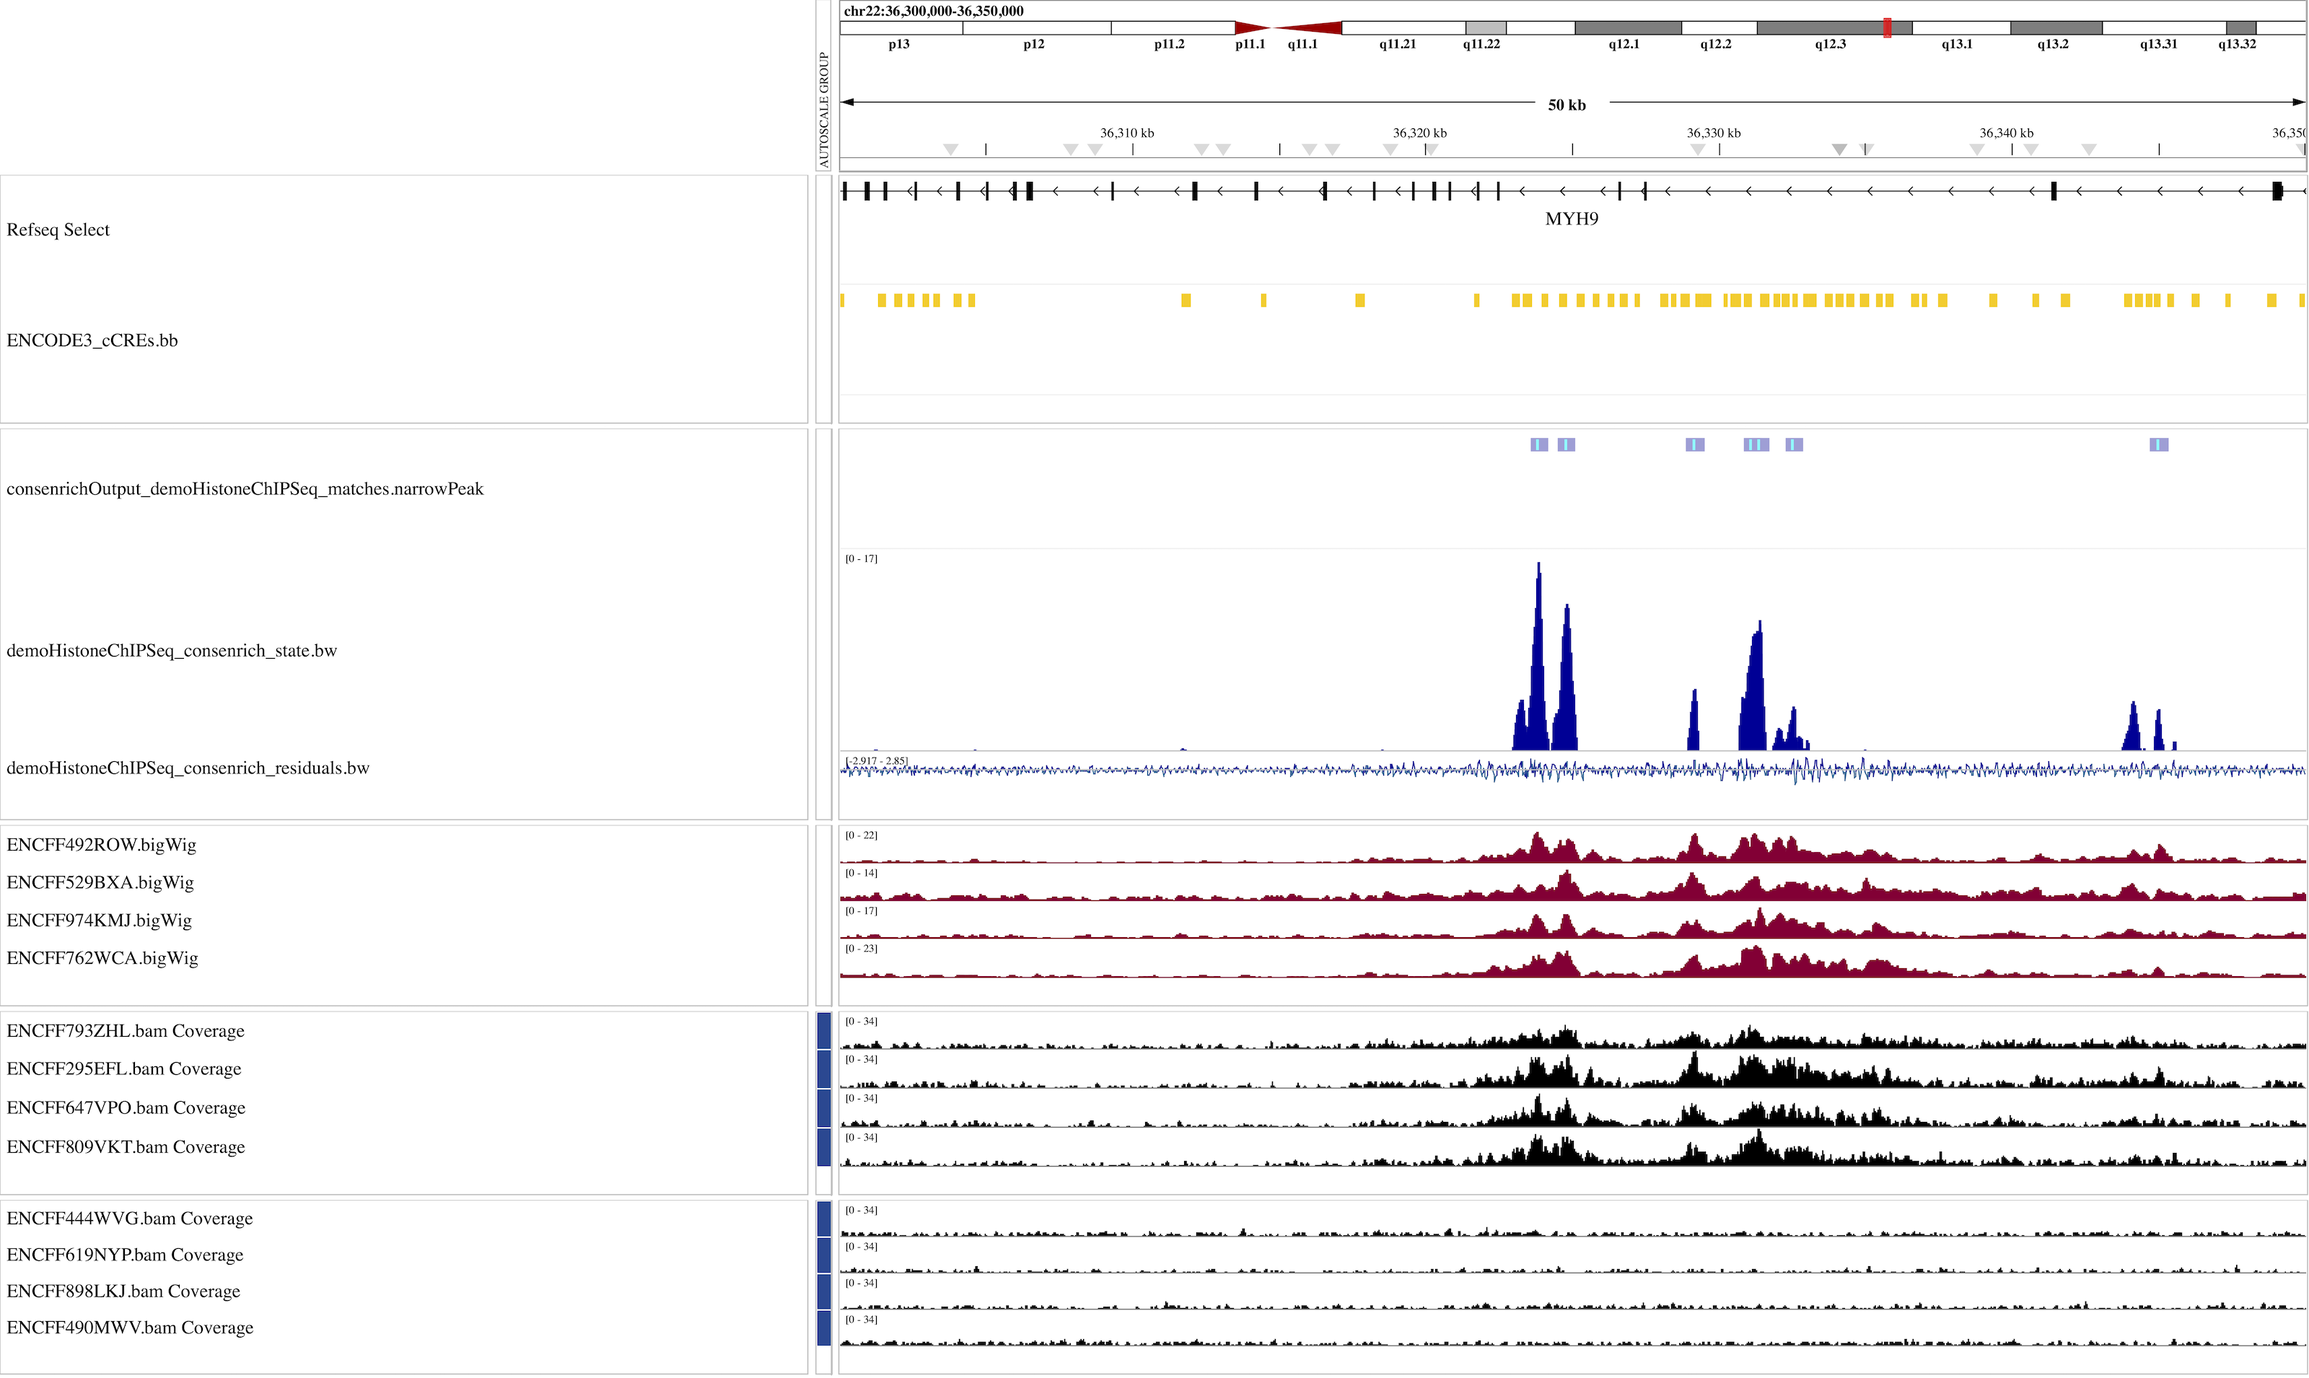
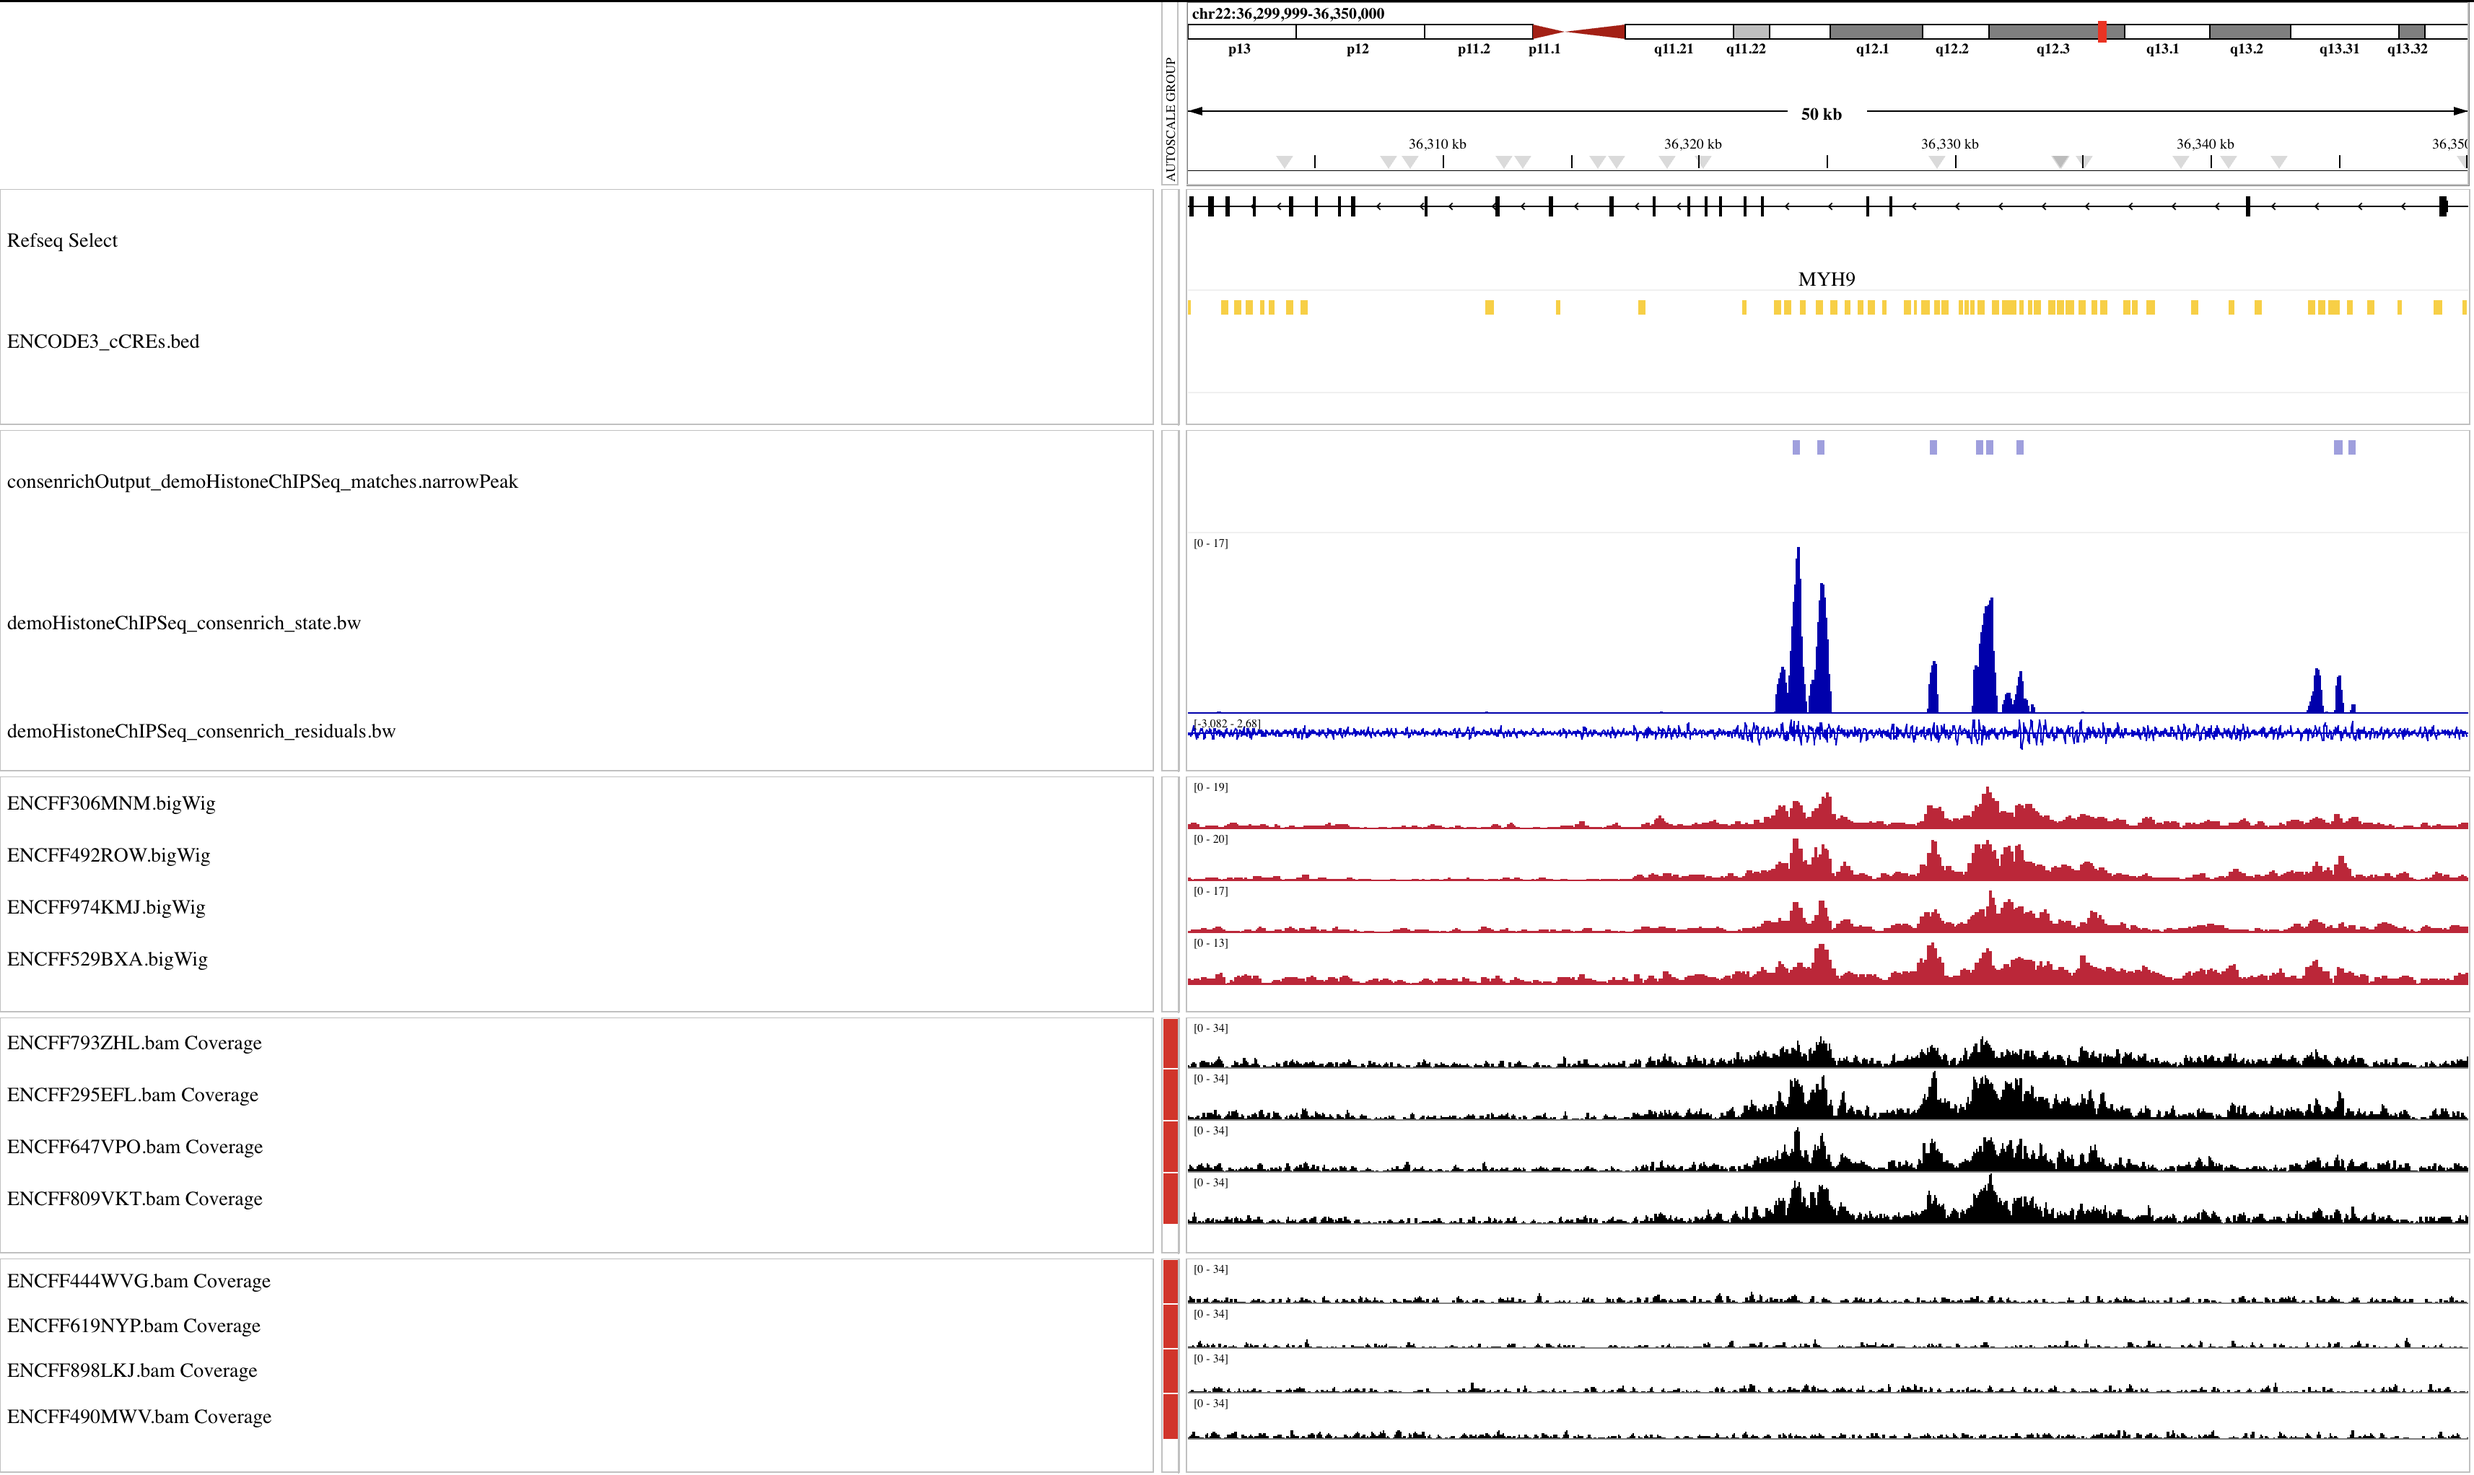
add 25kb

diff --git a/docs/source/examples.rst b/docs/source/examples.rst
@@ -79,7 +79,7 @@ Using a YAML Configuration file
    Refer to the ``<process,observation,etc.>Params`` classes in module in the :ref:`API` for complete documentation of configuration options.
 
 
-Copy and paste the following YAML into a file named ``demoHistoneChIPSeq.yaml``. For a quick trial run (:math:`\approx` 1 minute), you can restrict analysis to a single chromosome: To reproduce the results shown in the IGV browser snapshot below add ``genomeParams.chromosomes: ['chr22']`` to the configuration file.
+Copy and paste the following YAML into a file named ``demoHistoneChIPSeq.yaml``. For a quick trial run (:math:`\approx` 1 minute), you can restrict analysis to a subset of chromosomes: To reproduce the results shown in the IGV browser snapshot below add ``genomeParams.chromosomes: [chr21, chr22]`` to the configuration file.
 
 .. code-block:: yaml
   :name: demoHistoneChIPSeq.yaml
@@ -100,7 +100,10 @@ Copy and paste the following YAML into a file named ``demoHistoneChIPSeq.yaml``.
   matchingParams.iters: 25_000
   matchingParams.alpha: 0.01
 
-.. important:: To accommodate ATAC-seq, DNase-seq, CUT&RUN, etc. **Control inputs are optional**. Omit ``inputParams.bamFilesControl`` as needed.
+.. admonition:: Control Inputs
+  :class: tip
+
+  Omit ``inputParams.bamFilesControl`` for ATAC-seq, DNase-seq, Cut&Run, and other assays where no control is available or applicable.
 
 
 Run Consenrich
@@ -113,70 +116,70 @@ Invoke the command-line interface to run Consenrich:
 
   consenrich --config demoHistoneChIPSeq.yaml --verbose
 
-
-**IGV snapshot: demoHistoneChIPSeq**
-
-.. image:: ../images/ConsenrichIGVdemoHistoneChIPSeq.png
-  :alt: Output Consenrich Signal Estimates
-    :width: 85%
-    :align: center
-
-Input alignments (Black) and ENCODE ``fold change over control`` bigWigs for each sample (Red) are displayed for reference.
-
-* Consenrich signal estimate track: `demoHistoneChIPSeq_consenrich_state.bw`
-
-* Consenrich precision-weighted residual track: `demoHistoneChIPSeq_consenrich_residuals.bw`
-
-* Consenrich 'Matched' regions showing 'structured enrichment' (:ref:`matching`): `consenrichOutput_demoHistoneChIPSeq_matches.narrowPeak`
-
 .. note::
   The command-line interface is a convenience wrapper that may not expose all available objects or more niche features.
   Some users may find it beneficial to run Consenrich programmatically (via Jupyter notebooks, Python scripts), as the :ref:`API` enables
   greater flexibility to apply custom preprocessing steps and various context-specific protocols within existing workflows.
 
 
-Consenrich+ROCCO
-"""""""""""""""""""""
+Visualizing Results
+""""""""""""""""""""""""""
 
-Consenrich can markedly improve conventional consensus peak calling (See 'Results' in the `manuscript preprint <https://www.biorxiv.org/content/10.1101/2025.02.05.636702v2>`_).
+We display results at a **50kb** enhancer-rich region overlapping `MYH9`.
 
-`ROCCO <https://github.com/nolan-h-hamilton/ROCCO>`_ allows Consenrich bigWig files as input and is particularly well-suited to leverage the sharpened signal tracks for improved peak calling.
-
-In the example above, to call peaks using the `Consenrich+ROCCO` protocol,
-
-.. code-block:: console
-
-	python -m pip install rocco --upgrade
-	rocco -i demoHistoneChIPSeq_consenrich_state.bw -g hg38
-
-See `ROCCO Homepage <https://github.com/nolan-h-hamilton/ROCCO>`_ for installation details, documentation, examples, and other resources.
-
-.. note::
-
-	Other peak callers that accept bedGraph or bigWig input (e.g., `MACS' bdgpeakcall <https://macs3-project.github.io/MACS/docs/bdgpeakcall.html>`_) should be capable of utilizing Consenrich signal tracks. To date, only ROCCO has been tested for this purpose, though.
-
-	Depending on the signal target and goals of analysis, the :ref:`matching` algorithm available with Consenrich may be ideal for identifying peak-like regions exhibiting 'structured' patterns of enrichment across multiple samples.
+.. image:: ../images/ConsenrichIGVdemoHistoneChIPSeq.png
+  :alt: Output Consenrich Signal Estimates
+    :width: 800px
+    :align: left
 
 
-Further analyses are available in :ref:`additional-examples`. This section of the documentation will be regularly updated to include a breadth of assays, downstream analyses, and runtime benchmarks.
+Input alignments (Black) and ENCODE ``fold change over control`` bigWig files for each sample (Red) are displayed for reference.
 
+* Consenrich signal estimate track: ``demoHistoneChIPSeq_consenrich_state.bw``
+
+* Consenrich precision-weighted residual track: ``demoHistoneChIPSeq_consenrich_residuals.bw``
+
+* Consenrich 'Matched' regions showing a structured enrichment pattern: ``consenrichOutput_demoHistoneChIPSeq_matches.narrowPeak``
+
+
+.. admonition:: `Consenrich+ROCCO`: Consensus Peak Calling
+  :class: tip
+
+  Consenrich can markedly improve conventional consensus peak calling (See 'Results' in the `manuscript preprint <https://www.biorxiv.org/content/10.1101/2025.02.05.636702v2>`_).
+
+  `ROCCO <https://github.com/nolan-h-hamilton/ROCCO>`_ accepts Consenrich bigWig files as input and is particularly well-suited to leverage the sharpened signal tracks. In the example above, to call peaks using the `Consenrich+ROCCO` protocol,
+
+  .. code-block:: console
+
+	  python -m pip install rocco --upgrade
+	  rocco -i demoHistoneChIPSeq_consenrich_state.bw -g hg38
+
+
+  Alternative peak calling methods that accept bedGraph or bigWig input (e.g., `MACS' bdgpeakcall <https://macs3-project.github.io/MACS/docs/bdgpeakcall.html>`_) should be capable of utilizing Consenrich signal tracks. Only ROCCO has been evaluated for this task to date.
+
+  Depending on the signal target and goals of analysis, the :ref:`matching` algorithm available with Consenrich can also be used to complement existing peak calling methods---e.g., detecting 'structured' enrichment patterns across multiple samples or identifying subpeaks within broad regions of interest.
+
+Further analyses are available in :ref:`additional-examples`.
 
 .. _additional-examples:
 
-Additional Examples and Computational Benchmarking
+Additional Examples and Benchmarking
 ~~~~~~~~~~~~~~~~~~~~~~~~~~~~~~~~~~~~~~~~~~~~~~~~~~~~
 
 .. toctree::
    :maxdepth: 2
    :caption: Additional Examples and Computational Benchmarking
 
-- **ATAC-seq**
-- **Samples:** :math:`m=20` lymphoblast cell lines (ENCODE)
-- Between 25-100 million mapped reads per sample
 
+This section of the documentation will be regularly updated to include a breadth of assays, downstream analyses, and runtime benchmarks.
+
+ATAC-seq
+""""""""""""""""
+
+- Input data: :math:`m=20` ATAC-seq BAM files derived from lymphoblastoid cell lines (ENCODE)
 
 Environment
-"""""""""""""""""
+''''''''''''''
 
 - MacBook MX313LL/A (arm64)
 - Python 3.12.9
@@ -201,7 +204,7 @@ Names and versions of packages that are relevant to computational performance. T
        - 0.4.2b0
 
 
-Run with the following YAML config file, saved as `atac20Benchmark.yaml`
+Run with the following YAML config file `atac20Benchmark.yaml`. Note that globs, e.g., `*.bam`, are allowed, but each BAM file is listed here explicitly for reproducibility.
 
 .. code-block:: yaml
 
@@ -209,7 +212,7 @@ Run with the following YAML config file, saved as `atac20Benchmark.yaml`
   genomeParams.name: hg38
   genomeParams.excludeForNorm: ['chrX', 'chrY']
   genomeParams.excludeChroms: ['chrX','chrY']
-  inputParams.bamFiles: [ENCFF326QXM.bam, # globs are allowed, too, e.g., '*.bam'
+  inputParams.bamFiles: [ENCFF326QXM.bam,
     ENCFF497QOS.bam,
     ENCFF919PWF.bam,
     ENCFF447ZRG.bam,
@@ -230,45 +233,66 @@ Run with the following YAML config file, saved as `atac20Benchmark.yaml`
     ENCFF130DND.bam,
     ENCFF948HNW.bam
   ]
-  processParams.minQ: 0.05 # bound minimum process noise variance
-  observationParams.minR: 0.05 # bound minimum observation noise variance
+  processParams.minQ: 0.05 # lower bounds minimum process noise variance
+  observationParams.minR: 0.05 # lower bounds minimum observation noise variance
   countingParams.stepSize: 25
-  matchingParams.templateNames: [db2] # detect 'structured enrichment', db2-based template
+  matchingParams.templateNames: [db2] # structured enrichment patterns w/ db2
   matchingParams.cascadeLevels: [2]
-	matchingParams.alpha: 0.01
-  samParams.samThreads: 1 # single-threaded BAM I/O
-  samParams.chunkSize: 1000000 # 25,000,000bp chunks
+  matchingParams.alpha: 0.01
+  samParams.samThreads: 1
+  samParams.chunkSize: 1000000
 
 
-**Run Consenrich**
+Run Consenrich
+''''''''''''''''''''
 
 .. code-block:: console
 
   consenrich --config atac20Benchmark.yaml --verbose
 
+
 After running, the following files will be generated in the current working directory:
 
-* Consenrich signal estimate track: `atac20Benchmark_consenrich_state.bw`
+* Consenrich signal estimate track: ``atac20Benchmark_consenrich_state.bw``
 
-* Consenrich precision-weighted residual track: `atac20Benchmark_consenrich_residuals.bw`
+* Consenrich precision-weighted residual track: ``atac20Benchmark_consenrich_residuals.bw``
 
-* Consenrich regions showing 'structured enrichment' (:ref:`matching`): `consenrichOutput_atac20Benchmark_matches.narrowPeak`
+* Detected peak-like regions (:ref:`matching`): ``consenrichOutput_atac20Benchmark_matches.narrowPeak``
 
+
+Visualizing Results
+''''''''''''''''''''''''''''
+
+- Output tracks and features are visualized above in a **100kb** region around the transcription start site of `NOTCH1`.
 
 .. image:: ../benchmarks/atac20/images/atac20BenchmarkIGVSpib.png
     :alt: IGV Browser Snapshot
-    :width: 900px
+    :width: 800px
     :align: left
 
-Output tracks and features are visualized around at the transcription start site of `NOTCH1` in the IGV browser snapshot above. The bigWig files `atac20Benchmark_consenrich_state.bw` and `atac20Benchmark_consenrich_residuals.bw` are overlaid (blue/red) for comparison. Regions showing structured enrichment (db2) are positioned above the Consenrich signal.
 
-**Computation**
 
-Memory is tracked with `memory-profiler <https://pypi.org/project/memory-profiler/>`_. See the plot below for memory usage over time. Function calls are marked as notches in the plot. Note that the repeated sampling of memory introduces some overhead affecting runtime.
+The bigWig files `atac20Benchmark_consenrich_state.bw` and `atac20Benchmark_consenrich_residuals.bw` are overlaid (blue/red) for comparison.
+
+Regions showing a structured enrichment pattern (`db2, level=2`) are positioned above the Consenrich signal as BED features in narrowPeak format.
+
+- Focused view over a **25kb** subregion:
+
+.. image:: ../benchmarks/atac20/images/atac20BenchmarkIGVSpib25KB.png
+    :alt: IGV Browser Snapshot (25kb)
+    :width: 800px
+    :align: left
+
+Runtime and Memory Profiling
+''''''''''''''''''''''''''''''''''
+
+Memory was profiled using the package `memory-profiler <https://pypi.org/project/memory-profiler/>`_. See the plot below for memory usage over time. Function calls are marked as notches.
+
+Note that the repeated sampling of memory every 0.1 seconds during profiling introduces some overhead that affects runtime.
 
 .. image:: ../benchmarks/atac20/images/atac20BenchmarkMemoryPlot.png
     :alt: Time vs. Memory Usage (`memory-profiler`)
-    :width: 900px
+    :width: 800px
     :align: center
 
 

diff --git a/docs/source/installation.rst b/docs/source/installation.rst
@@ -16,6 +16,17 @@ Multiple binaries are distributed via `PyPI <https://pypi.org/project/consenrich
 
   python -m pip install consenrich --upgrade
 
+
+Previous Versions
+""""""""""""""""""""""""""
+
+To install a specific version of Consenrich from PyPI, e.g., ``0.1.13b1``:
+
+.. code-block:: bash
+
+  python -m pip install consenrich==0.1.13b1
+
+
 If a binary is not available for your platform, see below to build from source.
 
 
@@ -25,22 +36,20 @@ From Source
 To build from source, you will need a C compiler (e.g., `gcc` or `clang`) to build the Cython extensions.
 
 
+First, clone the repository:
 
 .. code-block:: console
 
   git clone https://github.com/nolan-h-hamilton/Consenrich.git
+
+
+Set the working directory and install:
+
+.. code-block:: console
+
   cd Consenrich
   python -m pip install .
 
-
-Previous Versions
-~~~~~~~~~~~~~~~~~~~~~
-
-To install a specific version of Consenrich from PyPI, you can specify the version number in the pip install command, for example:
-
-.. code-block:: bash
-
-  python -m pip install consenrich==0.1.13b1
 
 
 Conda
